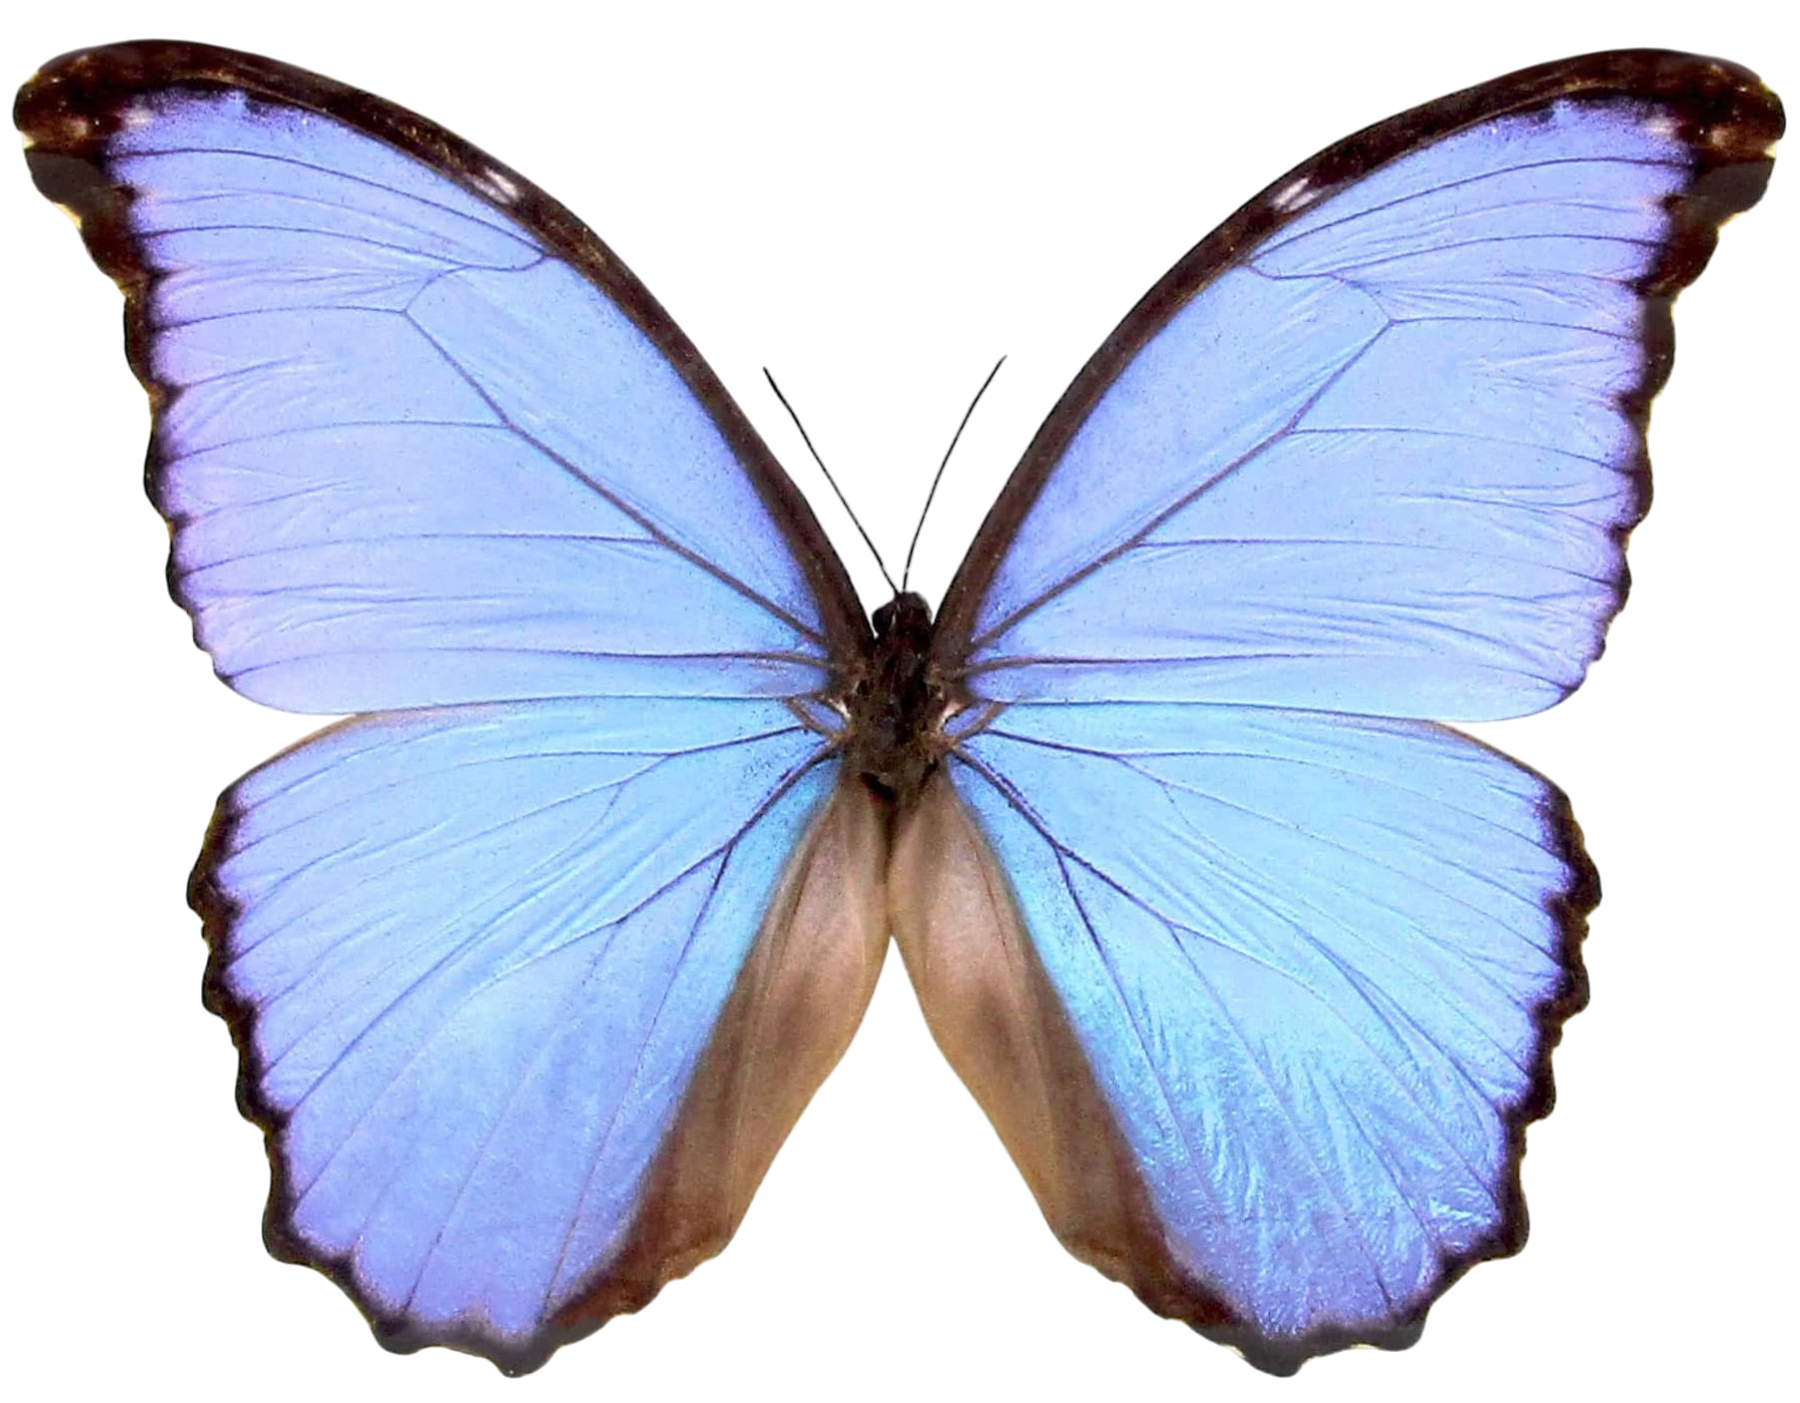
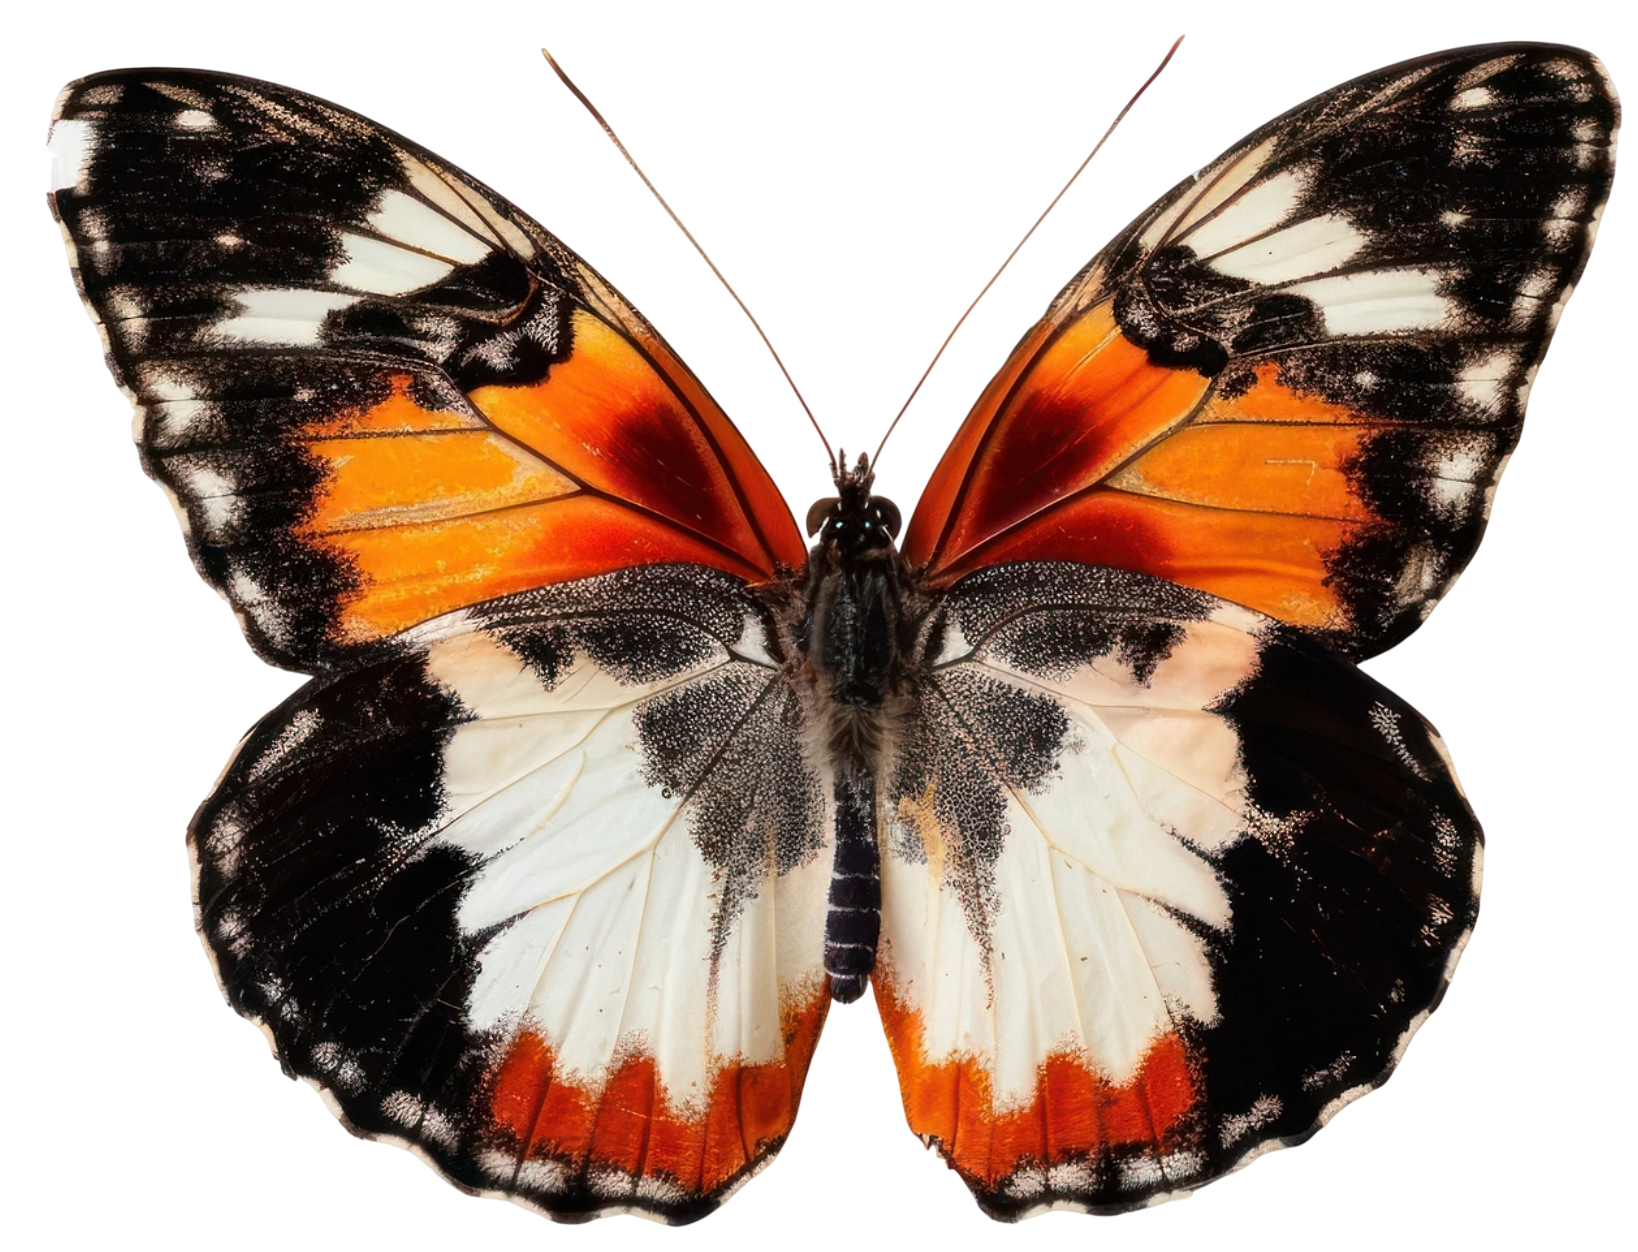
done

diff --git a/assignment_3/index.html b/assignment_3/index.html
@@ -89,9 +89,28 @@
         </div>
       </div>
 
+      <div class="img-cell">
+        <div class="butterfly">
+            <img src="img/butterfly13.png">
+        </div>
+      </div>
+
+      <div class="img-cell">
+        <div class="butterfly">
+            <img src="img/butterfly14.png">
+        </div>
+      </div>
+
+      <div class="img-cell">
+        <div class="butterfly">
+            <img src="img/butterfly15.png">
+        </div>
+      </div>
 
 
     </div>
 
 </body>
 </html>
+
+<!-- https://www.rawpixel.com/ - Butterfly images from rawpixel.com -->

diff --git a/assignment_3/style.css b/assignment_3/style.css
@@ -23,18 +23,13 @@ h2 {
 
 .butterfly-grid {
   display: grid;
-  grid-template-columns: repeat(4, 1fr);
-  gap: 20px;
+  grid-template-columns: repeat(5, 1fr);
+  gap: 10px;
 
 }
 
 .img-cell {
-  height: 300px;
-}
-
-.img-cell:hover {
-  background-color: rgb(20, 12, 17); 
-  transition: background-color 0.3s ease;
+  height: 210px;
 }
 
 .butterfly {
@@ -48,9 +43,9 @@ h2 {
 .butterfly img {
   height: 90%;          /* proportions */
   width: auto;          /* normal width */
-  transform: scaleX(0.5); 
-  transition: transform 0.5s ease, filter 0.8s ease;
-  /* filter: grayscale(100%) brightness(0.4);   */
+  transform: scaleX(0.6); 
+  transition: transform 0.2s ease, filter 0.2s ease;
+  filter: grayscale(100%) brightness(0.4);   
   transform-origin: center;
 }
 